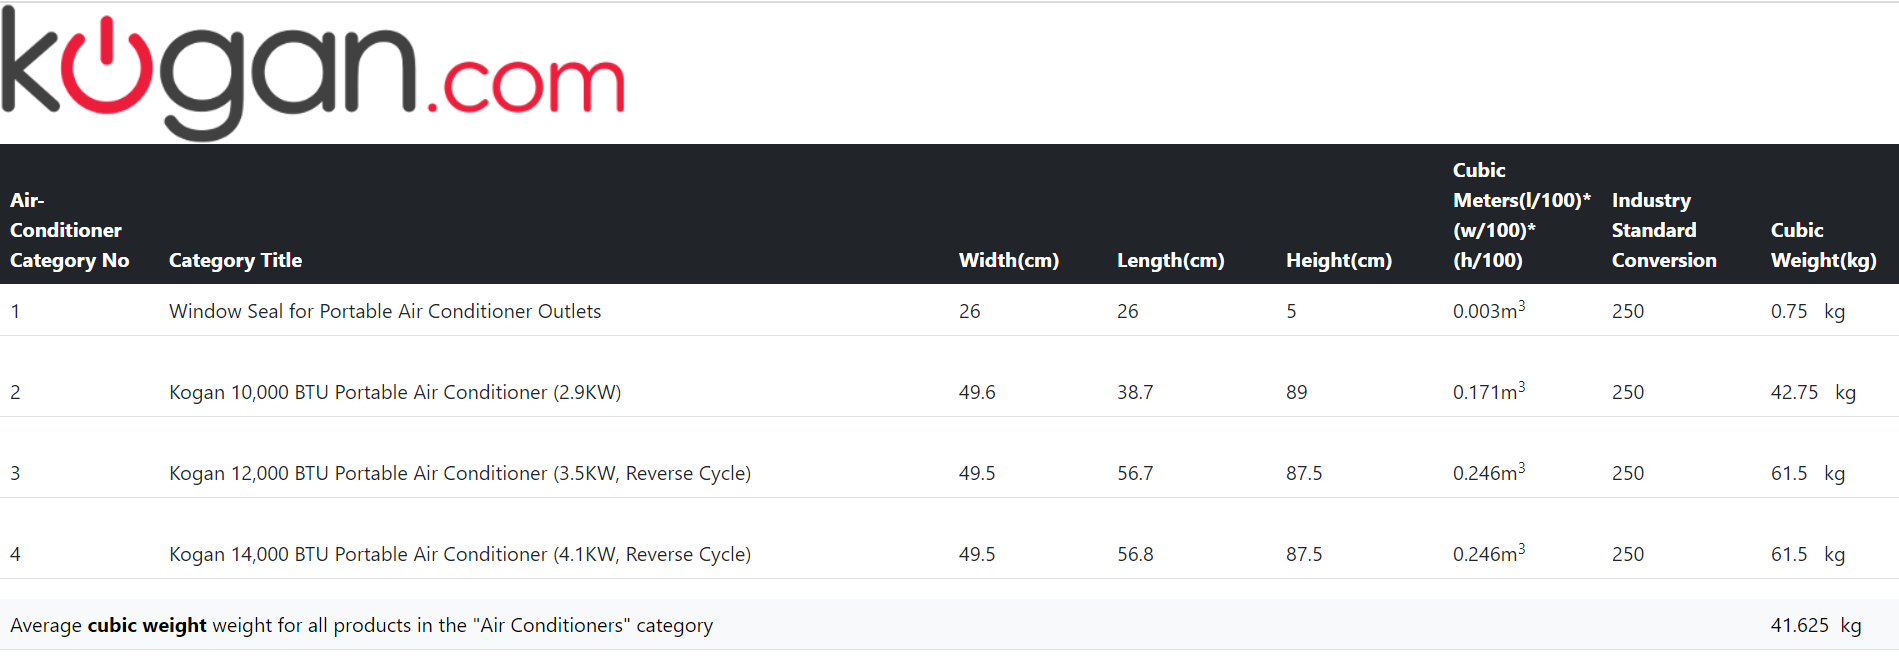
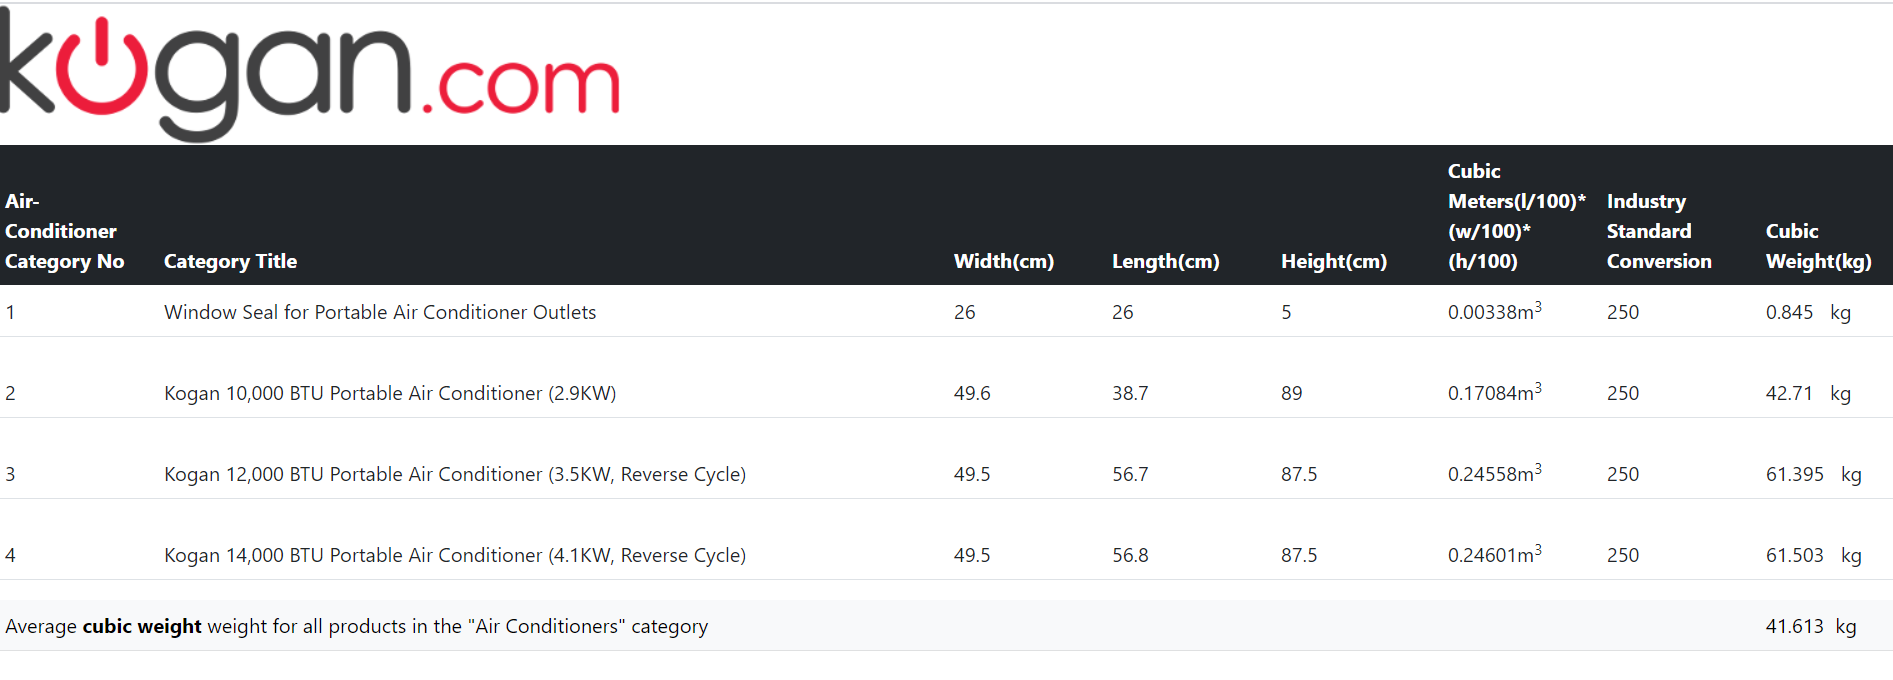
final commit

diff --git a/js/app.js b/js/app.js
@@ -58,7 +58,7 @@ const getEntireProductsList = async function(pageNo = 1) {
             categorySizeWidth: element.size.width,
             categorySizeHeight: element.size.height,
             cubicMeters : cubicWeight.calculateCubicMeters(element.size),
-            cubicWeightAC : cubicWeight.calculateACCubicWeight() 
+            cubicWeightAC : math.round((cubicWeight.calculateACCubicWeight()),3) 
           });
           const cubicWeightAC = cubicWeight.calculateACCubicWeight();
           cubicWeightArray.push(cubicWeightAC);//Array of All the cubic weights fo air conditioner products
@@ -72,6 +72,6 @@ const getEntireProductsList = async function(pageNo = 1) {
     })
     // render!
     document.getElementById('category-container').innerHTML = productHtmlList.join('<br>');
-    document.getElementById('average-cubicweight').insertAdjacentHTML("afterend", `<td class = "col-sm-1">${cubicWeightAverage}&nbsp&nbspkg</td>`);
+    document.getElementById('average-cubicweight').insertAdjacentHTML("afterend", `<td class = "col-sm-1">${math.round((cubicWeightAverage),3)}&nbsp&nbspkg</td>`);
 
 })();

diff --git a/index.html b/index.html
@@ -22,7 +22,7 @@
                         <th>Length(cm)</th>
                         <th>Height(cm)</th>
                         <th class="col-sm-1">Cubic Meters(l/100)*(w/100)*(h/100)</th>
-                        <th class="col-sm-1">Industry Standard Conversion</th>
+                        <th class="col-sm-1">Industry Standard Conversion factor</th>
                         <th>Cubic Weight(kg)</th>
                       </tr>
                     </thead>

diff --git a/js/calculateAverageCubicWeight.js b/js/calculateAverageCubicWeight.js
@@ -8,7 +8,7 @@ class calculateAverageCubicWeight {
             let length = size.length / 100;
             let width = size.width /100;
             let height = size.height /100;
-            this.cubicMeters = math.round((length * width * height),3);
+            this.cubicMeters = math.round((length * width * height),5);
         }
         return this.cubicMeters;
     }

diff --git a/README.md b/README.md
@@ -4,7 +4,7 @@
 
 *_ Create an app that uses http://wp8m3he1wt.s3-website-ap-southeast-2.amazonaws.com/api/products/1 API End point to Find the average cubic weight for all products in the "Air Conditioners" category. _*
 
-_**Note: **_ : As I am using fetch() (active mixed content) delivered via HTTP on this pages will be blocked by default.
+_**Note: **_ : As I am using fetch() (active mixed content) delivered via HTTP on this page will be blocked by default.
 The github page is broken due to Mixed Content Issue.
 The project needs to be cloned on local machine to check the output.
 
